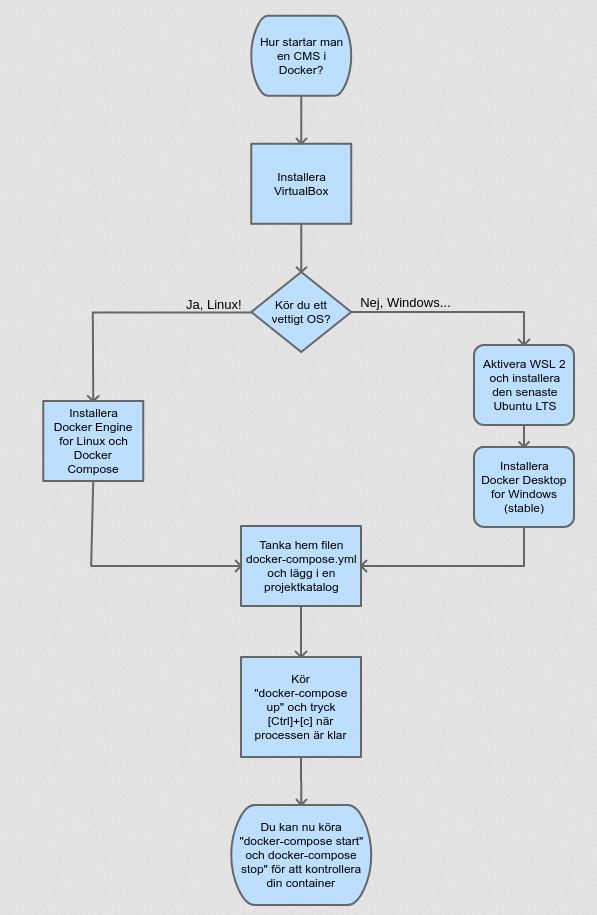
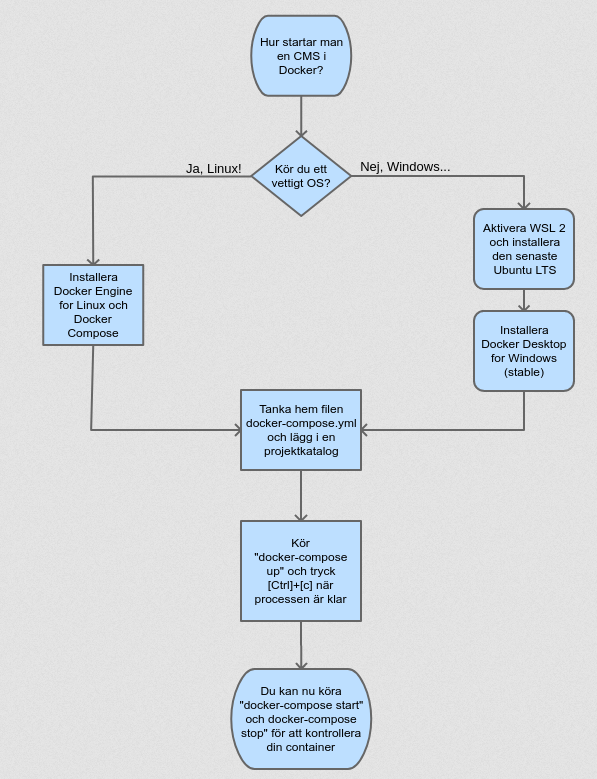
Updated Sub-theme instruction to 2022

diff --git a/weuweb02/src/weuweb02_-_drupal_subtheme.md b/weuweb02/src/weuweb02_-_drupal_subtheme.md
@@ -2,9 +2,9 @@
   <img src="https://app.tcstenungsund.se/themes/tcapp/images/tc-s-trans.svg" style="width:5em;" />
 </header>
 
-# Webbutveckling 2: Drupal subtheme
+# Webbutveckling 2: Drupal sub-theme
 
-*Med hjälp av kunskaper du redan har, som exempelvis CSS, Bootstrap, Docker och Drupal, skall du nu skapa ditt första subhteme till Drupal.*
+*Med hjälp av kunskaper du redan har, som exempelvis CSS, Bootstrap, Docker och Drupal, skall du nu skapa ditt första sub-theme till Drupal. Verktygen du använder är Docker, Drupal 9 och Bootstrap 5 Barrio.*
 
 ## Förutsättningar
 
@@ -14,38 +14,46 @@ Enskild uppgift.
 * [Drupal 8 Beginner](https://www.youtube.com/playlist?list=PLpVC00PAQQxHzlDeQvCNDKkyKRV1G3_vT)
 * ["How to Create a Sub Theme in Drupal 8 or 9"](https://youtu.be/hPXUn_D2-lE)
 * ["How to Convert an HTML Template to a Drupal 8 Theme"](https://youtu.be/xdifbN3y5hU)
-* [Drupal 8 Bootstrap 3 - Sub-Theming - Using the Starterkit](https://drupal-bootstrap.org/api/bootstrap/docs%21Sub-Theming.md/group/sub_theming/8.x-3.x)
-* [Drupal 8/9 Creating a custom Barrio (Bootstrap 4) sub-theme manually](https://www.drupal.org/docs/8/themes/barrio-bootstrap-4-drupal-89-theme/bootstrap-barrio-installation/creating-a-custom#s-create-manually)
-
-> Tips! Stabilt just nu (2021 Q1) är Drupal 8 och Bootstrap 4. Men nästa version av bägge projekten är mycket nära produktionsfärdiga. Undersök dem gärna själv!
+* [Barrio Installation](https://www.drupal.org/docs/8/themes/barrio-bootstrap-4-drupal-89-theme/bootstrap-barrio-installation/installation)
+* [Creating a custom Barrio sub-theme manually](https://www.drupal.org/docs/8/themes/barrio-bootstrap-4-drupal-89-theme/bootstrap-barrio-installation/creating-a-custom-barrio-sub-theme#s-create-manually)
+* [Drupal.org Theming Drupal](https://www.drupal.org/docs/theming-drupal)
+* [docker-compose.yml (version 2.0)](https://raw.githubusercontent.com/seetee/docker/version2.0/drupal/docker-compose.yml)
 
 ## Uppgiftsbeskrivning
 
-Välj först vilket Bootstrap-baserat tema för Drupal du vill använda. De fungerar på väldigt liknande sätt, men Bootstrap skiljer sig en hel del åt mellan version 3, 4 och 5. Så välj det bastema du är mest van vid. För Bootstrap 3 finns temat "Bootstrap" och för Bootstrap 4 finns temat "Barrio". Det går bra att välja ett annat Bootstrap-tema om det blivit stabilt.
+##### Planering
 
-Installera Bootstrap.
+Bestäm ett syfte för sidan (business objective), samt några Call to Actions. Definiera färgschema, typsnitt samt bildspråk. Leta upp bilder och ikoner du har laglig rätt att använda i projektet. Skapa wireframes, moodboards och liknande om det behövs. Inkludera bakgrundsbilder/mönster, subtila strukturer, typsnitt, färger och allt annat du lärt dig när det gäller att bygga en webbplats.
 
-Sök upp informationen för hur du skapar ett subhteme för det tema du valt (instruktionerna för Bootstrap samt Barrio finns länkade i resurslistan ovan). Bootstrap har egna readme-filer, och Drupal.org har självklart utmärkt [dokumentation av teman](https://www.drupal.org/docs/8/theming) och installationer.
+##### Infrastruktur
 
-Skapa ett subtheme till Bootstrap.
+Installera Docker och Drupal. Följ instruktionen i ["Workspace Setup"](https://raw.githubusercontent.com/seetee/manual/master/weuweb02/src/weuweb02_-_workspace_setup.pdf).
 
-Följ de officiella instruktionerna och skapa ett eget subtheme till Bootstrap för Drupal. Inkludera bakgrundsbilder/mönster, subtila strukturer, typsnitt, färger och allt annat du lärt dig när det gäller att bygga en webbsida.
+Installera temat [Barrio](https://www.drupal.org/project/bootstrap_barrio)  samt modulen [Devel](https://www.drupal.org/project/devel). Hitta även minst 1 modul till som du kan använda för att visa upp någonting coolt på förstasidan av din webbplats. Generera exempeldata med Devel.
 
-För exempeldata använd modulen [Devel](https://www.drupal.org/project/devel).
+##### Skapa ditt sub-theme
 
-#### Överkurs
+Följ de officiella instruktionerna och skapa ett eget sub-theme till Barrio.
 
-Siktar du på högre betyg, skapa en egen template-fil för förstasidan av din site. (Detta kan innebära att du kommer i kontakt med både [YAML](https://en.wikipedia.org/wiki/YAML) och [Twig](https://en.wikipedia.org/wiki/Twig_(template_engine))).
+För att skriva CSS, skapa dokumentet style.css i katalogen CSS i din sub-theme-katalog. Högerklicka sedan i webbläsaren på det element du vill ändra och välj "Inspect Element". Konstruera en selektor av klasser och element, till exempel ".region-secondary-menu h2" för att ändra underrubriken över sekundärmenyn. Lägg till selektorn och skriv dina CSS-regler ditt CSS-dokument.
+
+> Tips! Ändra inga färger i inställningarna för ditt sub-theme i Drupal. Då uppstår det en konflikt med ditt CSS-dokument.
+
+Kontrollera sådant som kontrast och [A11y](https://developer.mozilla.org/en-US/docs/Web/Accessibility).
+
+##### Överkurs
+
+Siktar du på högre betyg, skapa en egen template-fil för förstasidan av din site. (Detta innebär att du kommer i kontakt med både [YAML](https://en.wikipedia.org/wiki/YAML) och [Twig](https://en.wikipedia.org/wiki/Twig_(template_engine))).
 
 <div style="page-break-after: always;">&nbsp;</div>
 
 ## Förväntat resultat
 
-Ett komplett, snyggt och funktionellt subtheme till Drupal. Det skall gå att installera på en annan Drupal-instans, och inte direkt vara igenkänningsbart som Drupal.
+Ett komplett, snyggt och funktionellt sub-theme till Drupal. Det skall gå att installera på en annan Drupal-instans, och inte direkt vara igenkänningsbart som Drupal.
 
 ### Vilka filer?
 
-En 7z-fil med din kompletta subtheme-katalog så som den sett ut om den tankats ned från drupal.org.
+En 7z-fil med din kompletta sub-theme-katalog så som den sett ut om den tankats ned från drupal.org.
 
 Ett screenshot av förstasidan på din site.
 

diff --git a/weuweb02/src/weuweb02_-_workspace_setup.md b/weuweb02/src/weuweb02_-_workspace_setup.md
@@ -15,7 +15,6 @@ I denna uppgift krävs det att du kan läsa, förstå och följa officiella inst
 Du förutsätts kunna navigera och köra kommandon på kommandoraden, installera mjukvara i Windowsmiljö och ladda ned filer från webben.
 
 ### Resurser
-* [VirtualBox](https://www.virtualbox.org/)
 * [WSL 2 (Ubuntu 20.04 LTS)](https://docs.microsoft.com/en-us/windows/wsl/install-win10)
 * [Docker Desktop for Windows](https://docs.docker.com/docker-for-windows/install-windows-home/)
 * [Docker Engine for Linux](https://docs.docker.com/engine/install/ubuntu/) och [Docker Compose](https://docs.docker.com/compose/install/)
